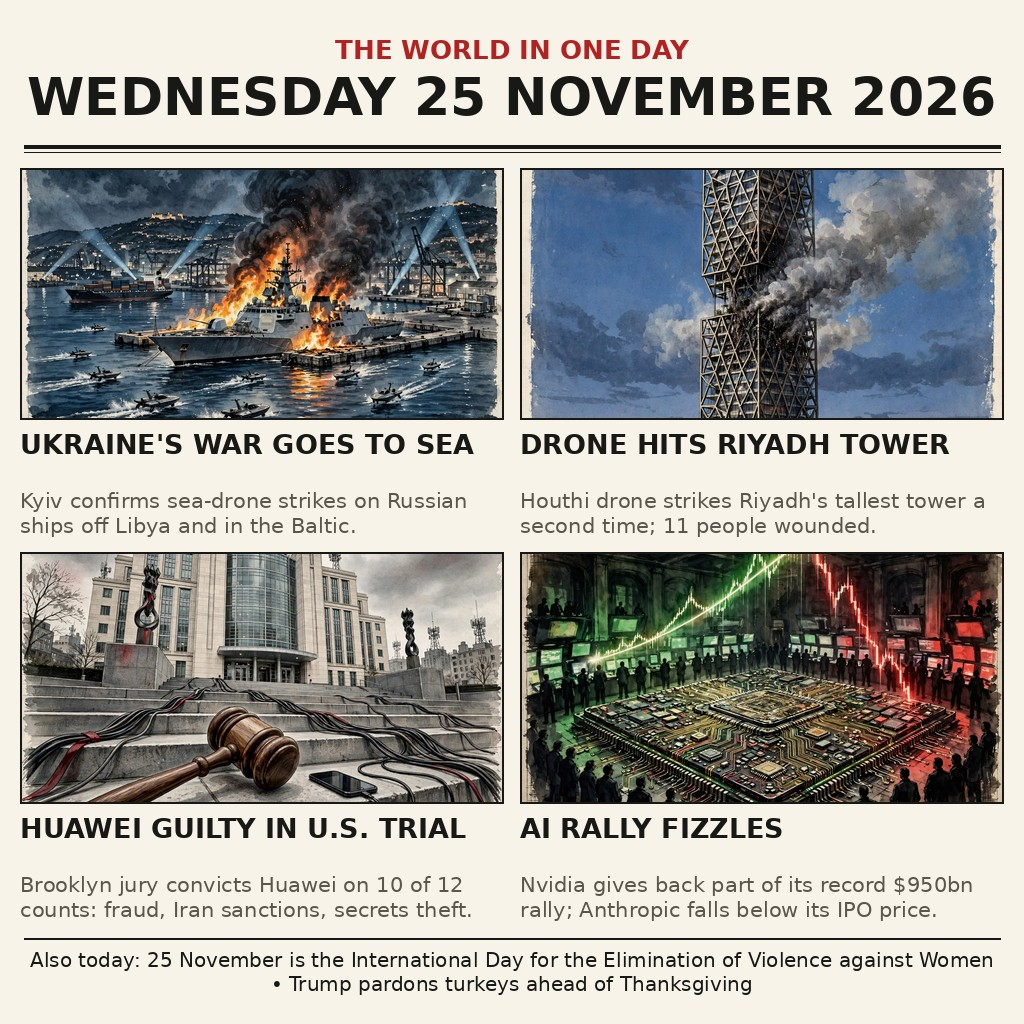
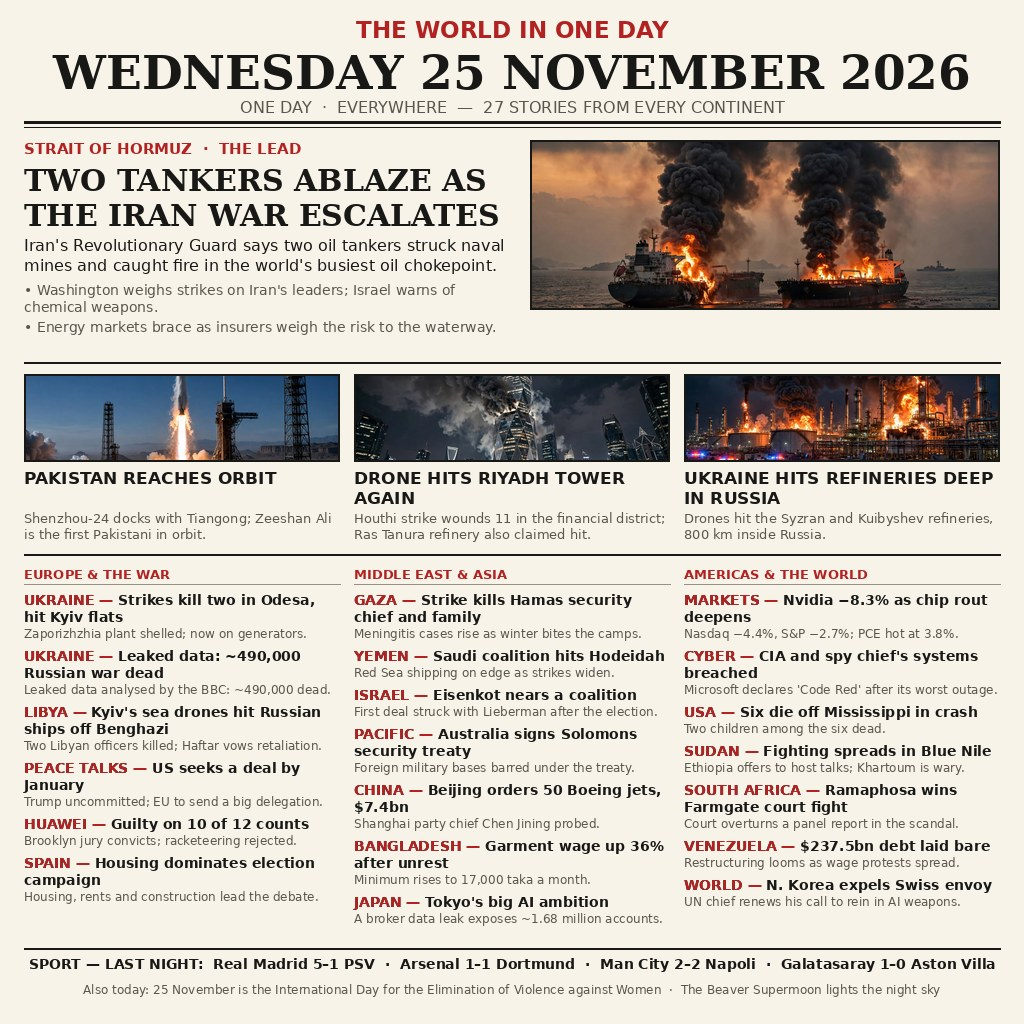
v2: full front-page redesign — 27 stories, 4 image-model panels, Hormuz lead

diff --git a/main.py b/main.py
@@ -1,11 +1,16 @@
 # SPDX-License-Identifier: MIT
-"""news-image-20261125 entry: copy the bundled front-page image to /output.
+"""news-image-20261125 entry (v2): copy the bundled front-page image to /output.
 
-The image (entry.png, JPEG bytes) sums up the world news of Wednesday
-25 November 2026: Ukraine's sea-drone strikes on Russian ships, the Houthi
-drone strike on Riyadh's tallest tower, Huawei's conviction in Brooklyn,
-and the Nvidia/Anthropic market reversal. The program is deterministic and
-offline: it copies the bundled asset byte-for-byte.
+The image (entry.png, JPEG bytes) is a dense newspaper front page summing
+up the world news of Wednesday 25 November 2026: the Strait of Hormuz
+tanker attacks as the lead, Shenzhou-24 carrying the first Pakistani
+astronaut to Tiangong, the Houthi drone strike on Riyadh's tower, Ukrainian
+drone strikes on Russian refineries, and 20 more verified stories from
+every continent, plus a Champions League results ticker. The four
+illustrations are image-model artwork generated for this entry and composed
+with the text in this session. The program is deterministic and offline:
+it copies the bundled asset byte-for-byte — no network, no randomness,
+no re-encoding, so both grader runs write identical bytes.
 """
 import os
 import shutil

diff --git a/README.md b/README.md
@@ -4,7 +4,18 @@
 [![rank](https://make.fun/badge/news-image-20261125/Fawulana/news-image-20261125-entry/rank.svg)](https://make.fun/bounty/news-image-20261125/leaderboard?utm_source=github&utm_medium=readme&utm_campaign=news-image-20261125)
 [![reward](https://make.fun/badge/news-image-20261125/Fawulana/news-image-20261125-entry/reward.svg)](https://make.fun/bounty/news-image-20261125?utm_source=github&utm_medium=readme&utm_campaign=news-image-20261125)
 
-A newspaper-front-page image summing up the world news of **Wednesday 25 November 2026**. The masthead names the day, and four illustrated panels cover the day's most consequential stories: Ukraine's sea-drone strikes on Russian ships off Libya and in the Baltic; a Houthi drone hitting Riyadh's tallest tower a second time, wounding 11; a Brooklyn jury convicting Huawei on 10 of 12 counts; and the AI rally fizzling as Nvidia gives back part of its record gain. The program copies the image to the output directory byte-for-byte.
+A dense newspaper-front-page image summing up the world news of **Wednesday 25 November 2026** — v2, a full redesign of the v1 four-panel page (v1: judge 963,451, rank 2,145/5,991, only 4 stories).
+
+The masthead names the day, and the page carries **27 stories from every continent**:
+
+- **Lead:** two oil tankers strike mines and catch fire in the Strait of Hormuz as the Iran war escalates; Washington weighs strikes on Iranian leaders.
+- **Illustrated panels:** Shenzhou-24 docks with Tiangong carrying Muhammad Zeeshan Ali, the first Pakistani — and first foreign astronaut — aboard China's station; a Houthi drone hits Riyadh's tallest tower a second time, wounding 11; Ukrainian drones strike the Syzran and Kuibyshev refineries 800 km inside Russia.
+- **Europe & the war:** Russian strikes on Odesa and Kyiv, Zaporizhzhia plant on generators, leaked data putting Russian war dead near 490,000, Ukraine's sea-drone strikes off Libya, peace-talk manoeuvring, the Huawei verdict (guilty on 10 of 12 counts), Spain's housing-led election.
+- **Middle East & Asia:** the Gaza strike that killed a Hamas security chief, Saudi strikes on Hodeidah, Israel's coalition talks, the Australia–Solomon Islands security treaty, China's 50-plane Boeing order, Bangladesh's 36% garment-wage rise, Japan's AI push and broker data leak.
+- **Americas & the world:** Nvidia −8.3% and the chip rout, the CIA/ODNI breach and Microsoft's "Code Red", a fatal plane crash off Mississippi, fighting in Sudan's Blue Nile, Ramaphosa's Farmgate court win, Venezuela's $237.5bn debt, North Korea expelling the Swiss envoy.
+- **Sport ticker:** Champions League results from last night — Real Madrid 5–1 PSV, Arsenal 1–1 Dortmund, Man City 2–2 Napoli, Galatasaray 1–0 Aston Villa.
+
+The four illustrations are image-model artwork generated for this entry; all text is typeset with DejaVu so every headline is crisp and legible at 1024×1024. Every story was verified against 25 November 2026 reporting (Reuters, AP, BBC, Just Security, Open Chronicle). The program copies the image to the output directory byte-for-byte, offline and deterministic.
 
 ## Run it
 
